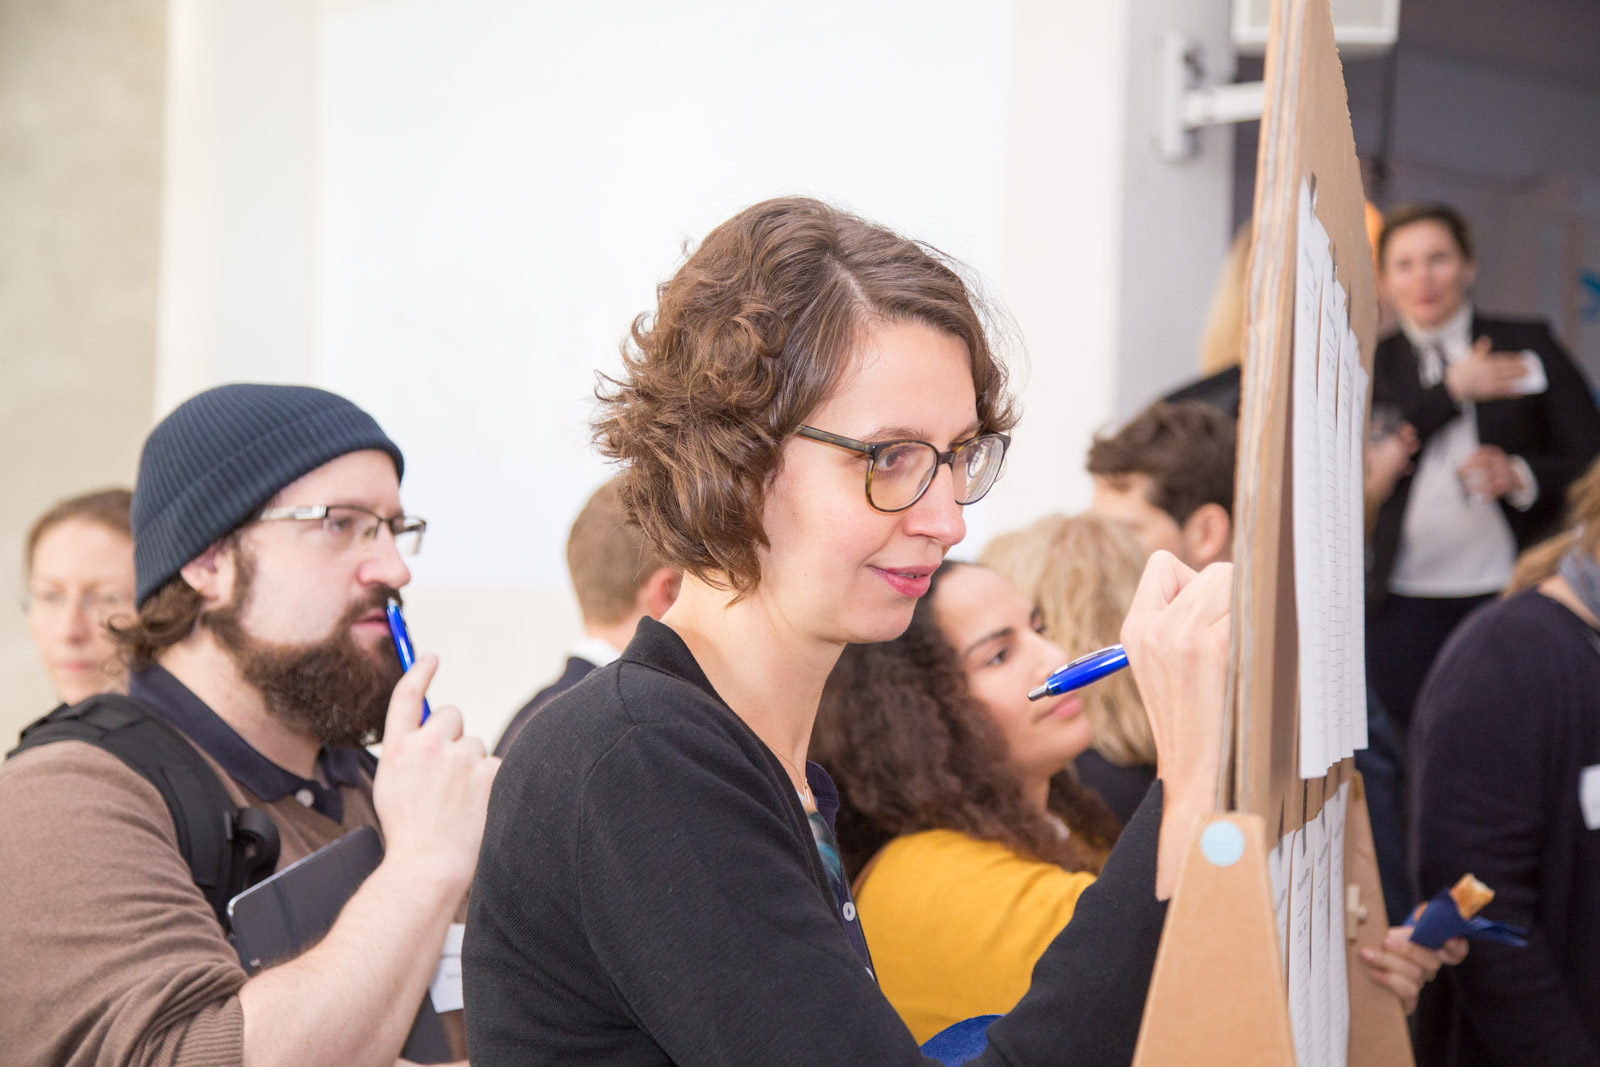
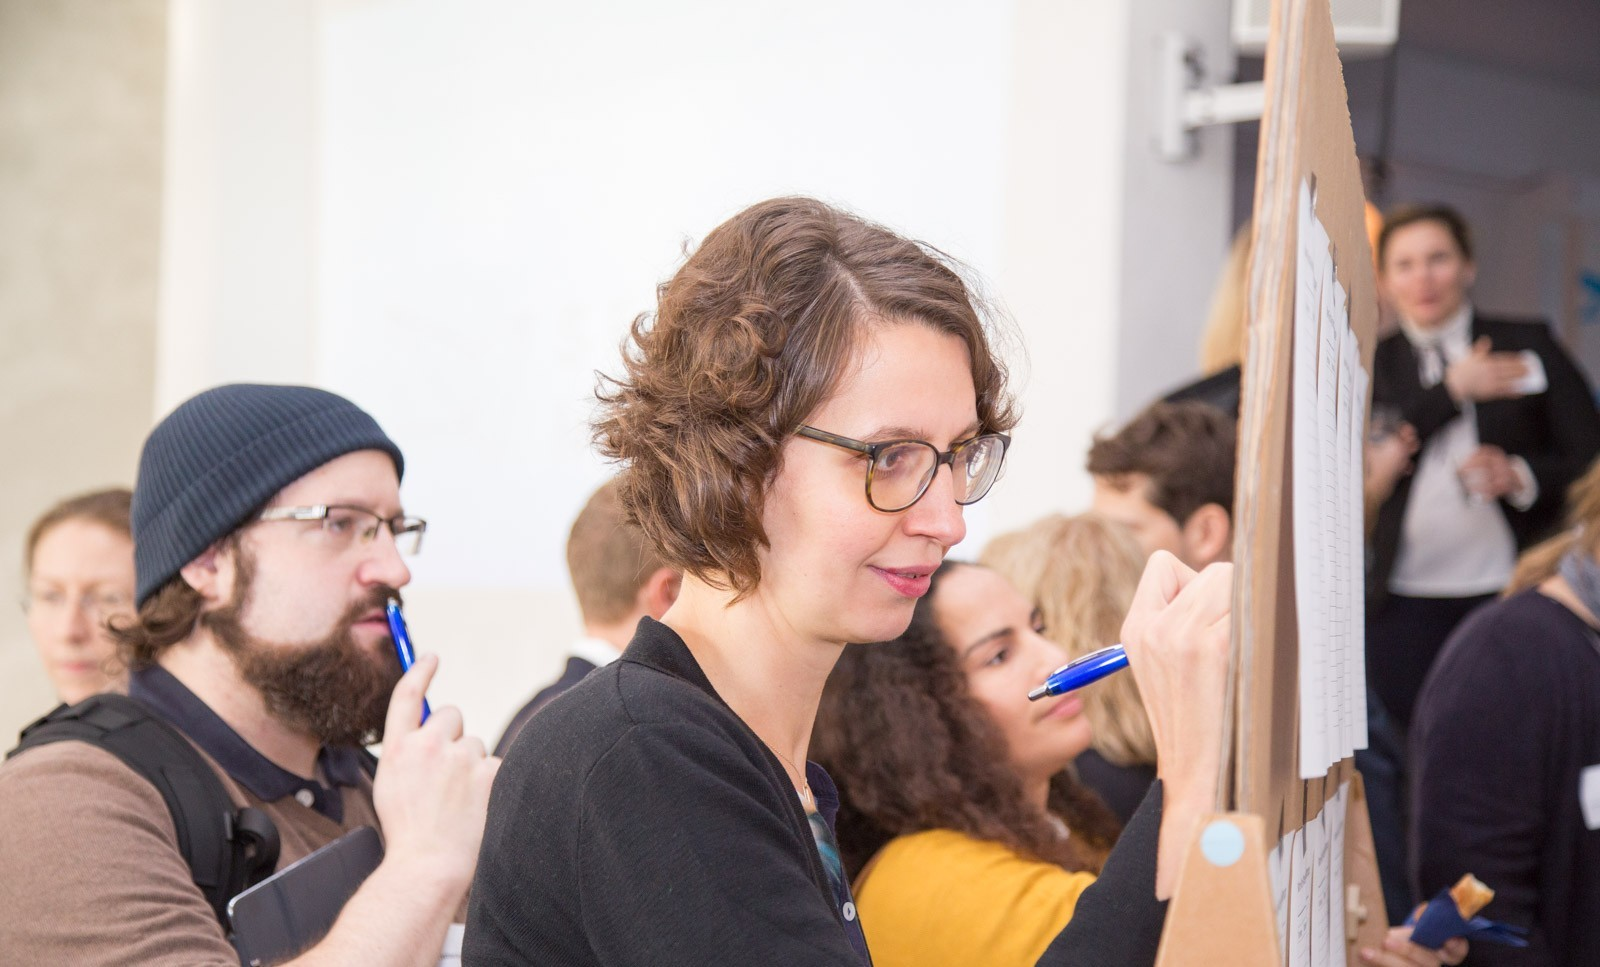
add top image for blog

diff --git a/src/templates/blog.js b/src/templates/blog.js
@@ -3,7 +3,7 @@ import axios from 'axios';
 import TopImage from '../components/top-image/TopImage.js';
 import TriangleBoxContainer from '../components/triangle-boxes/TriangleBoxContainer';
 import PageHelmet from '../components/PageHelmet';
-import topImage from '../img/SEND_01.02.18_Internet-343.jpg';
+import topImage from '../img/SEND_01.02.18_Internet-111.jpg';
 import BackgroundTurquoise from '../components/svg/BackgroundTurquoise';
 import ButtonLoadMore from '../components/cta/ButtonLoadMore';
 import ButtonCTA from '../components/cta/ButtonCTA';
